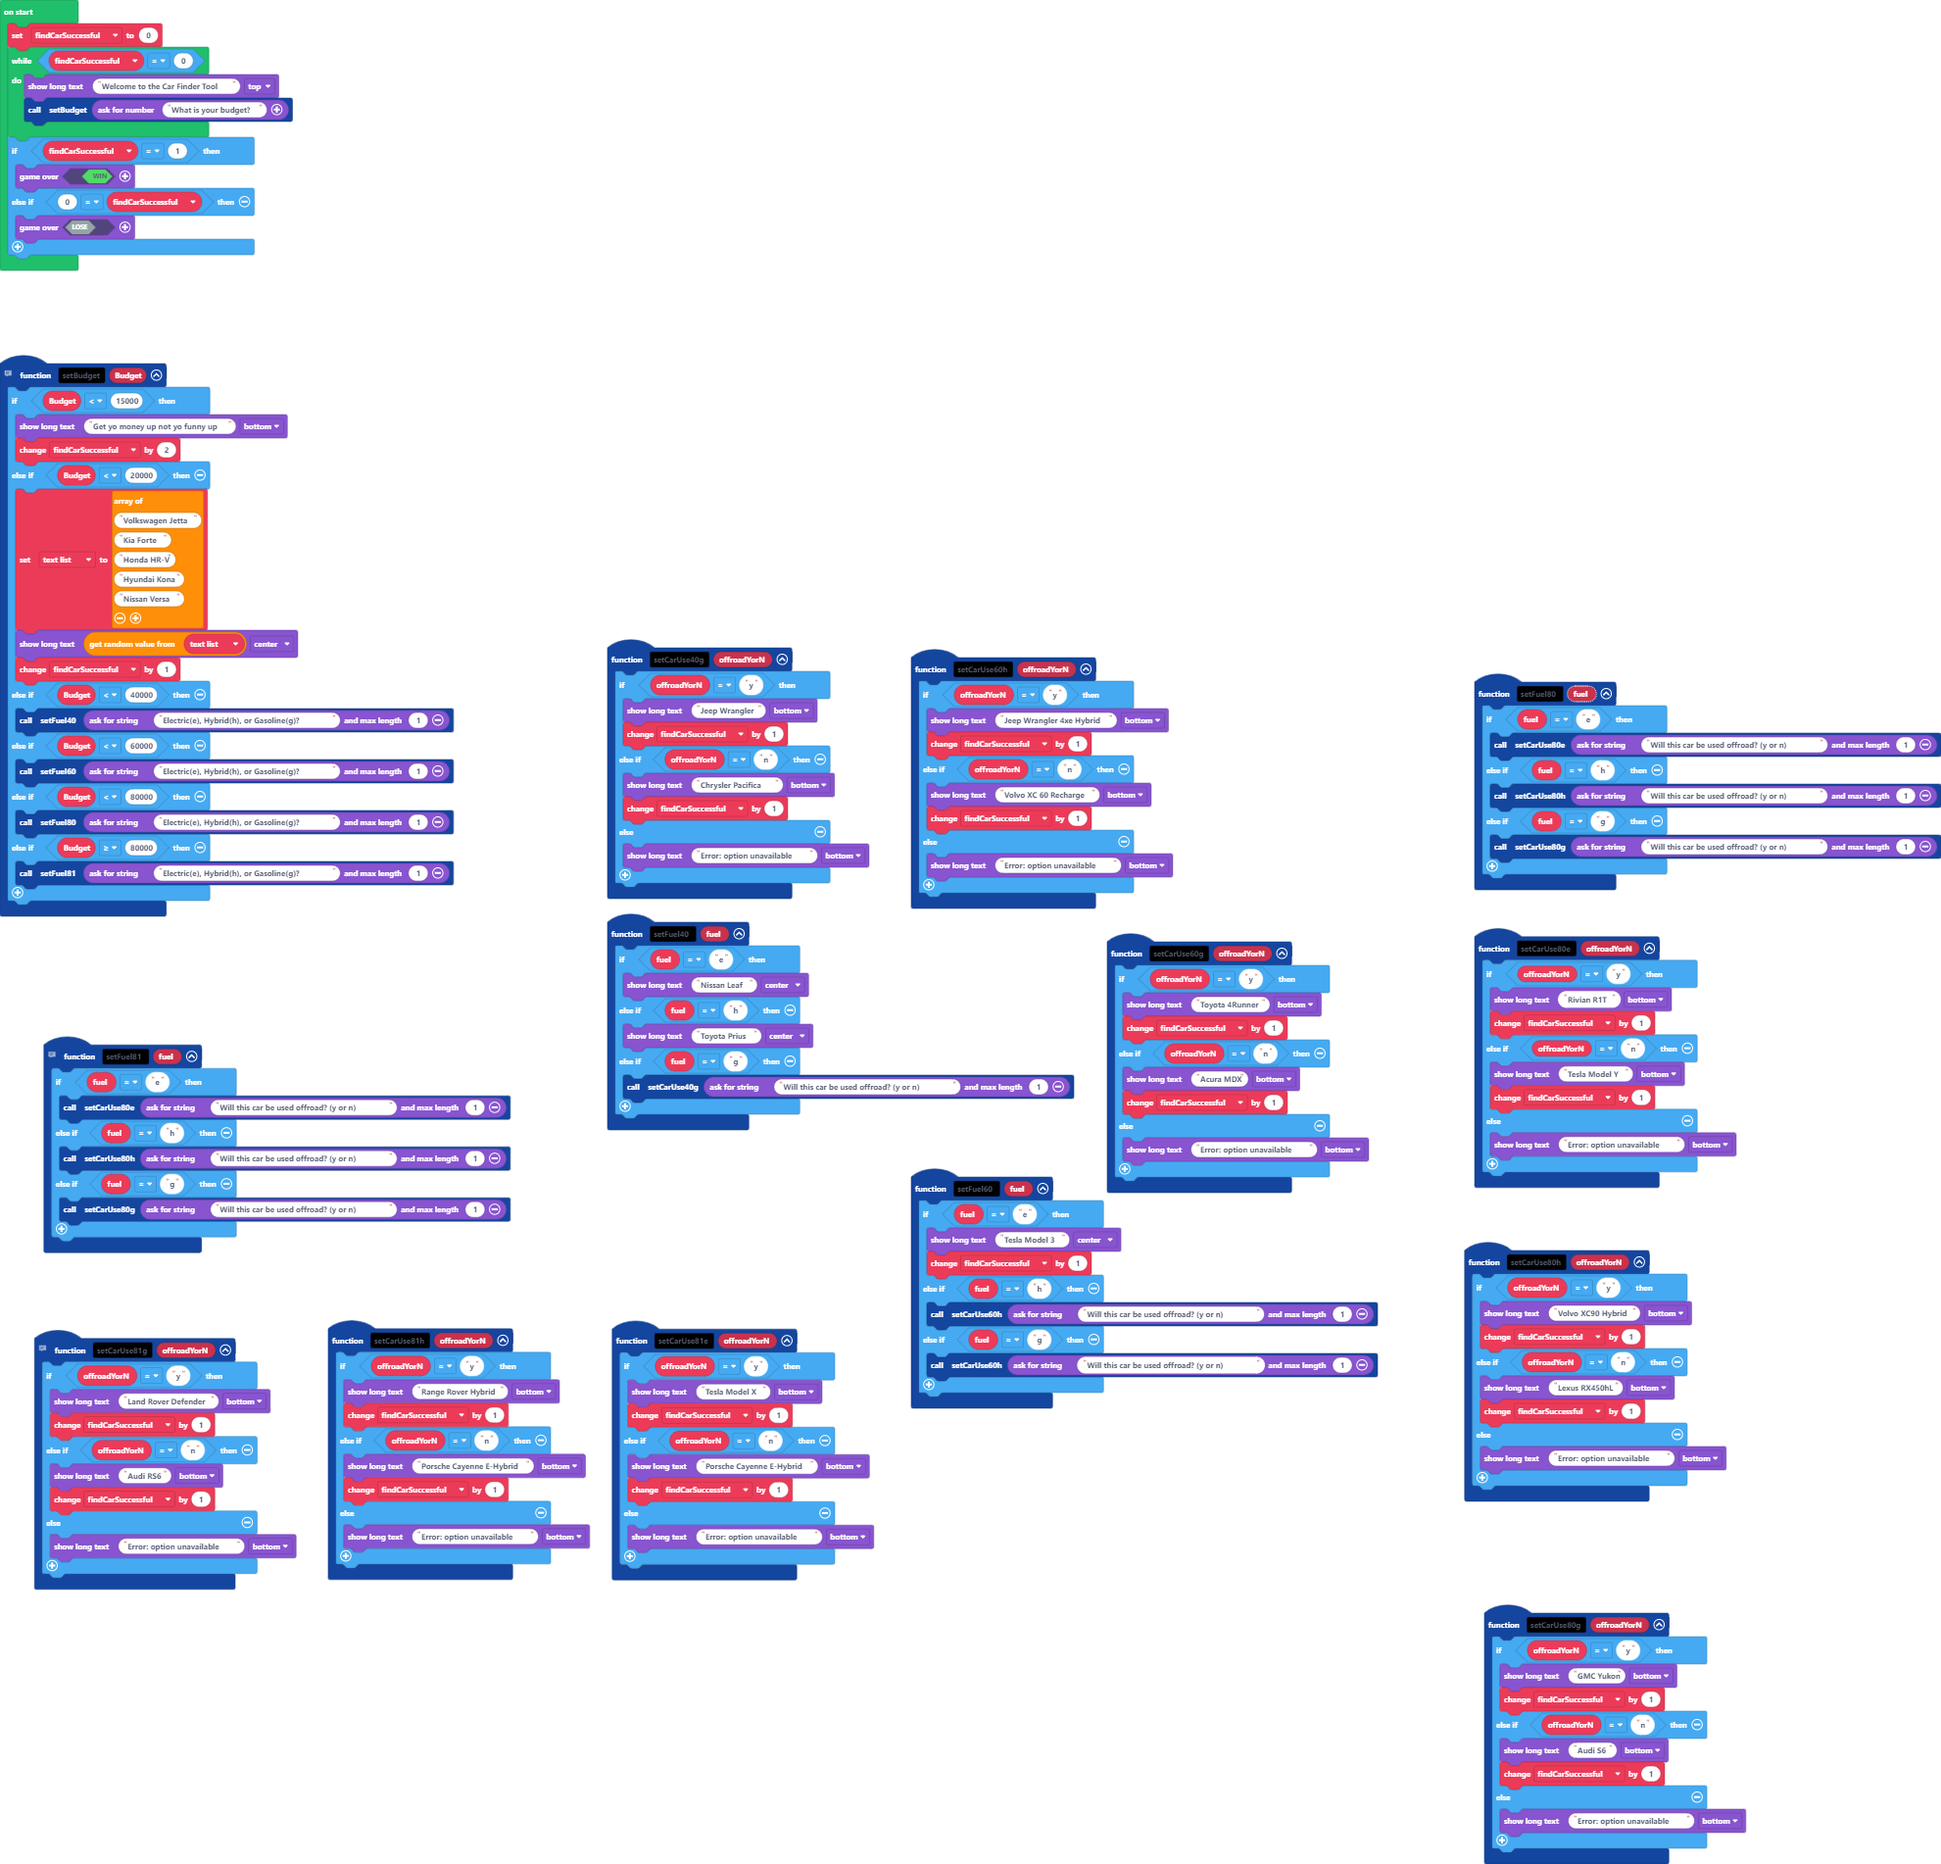
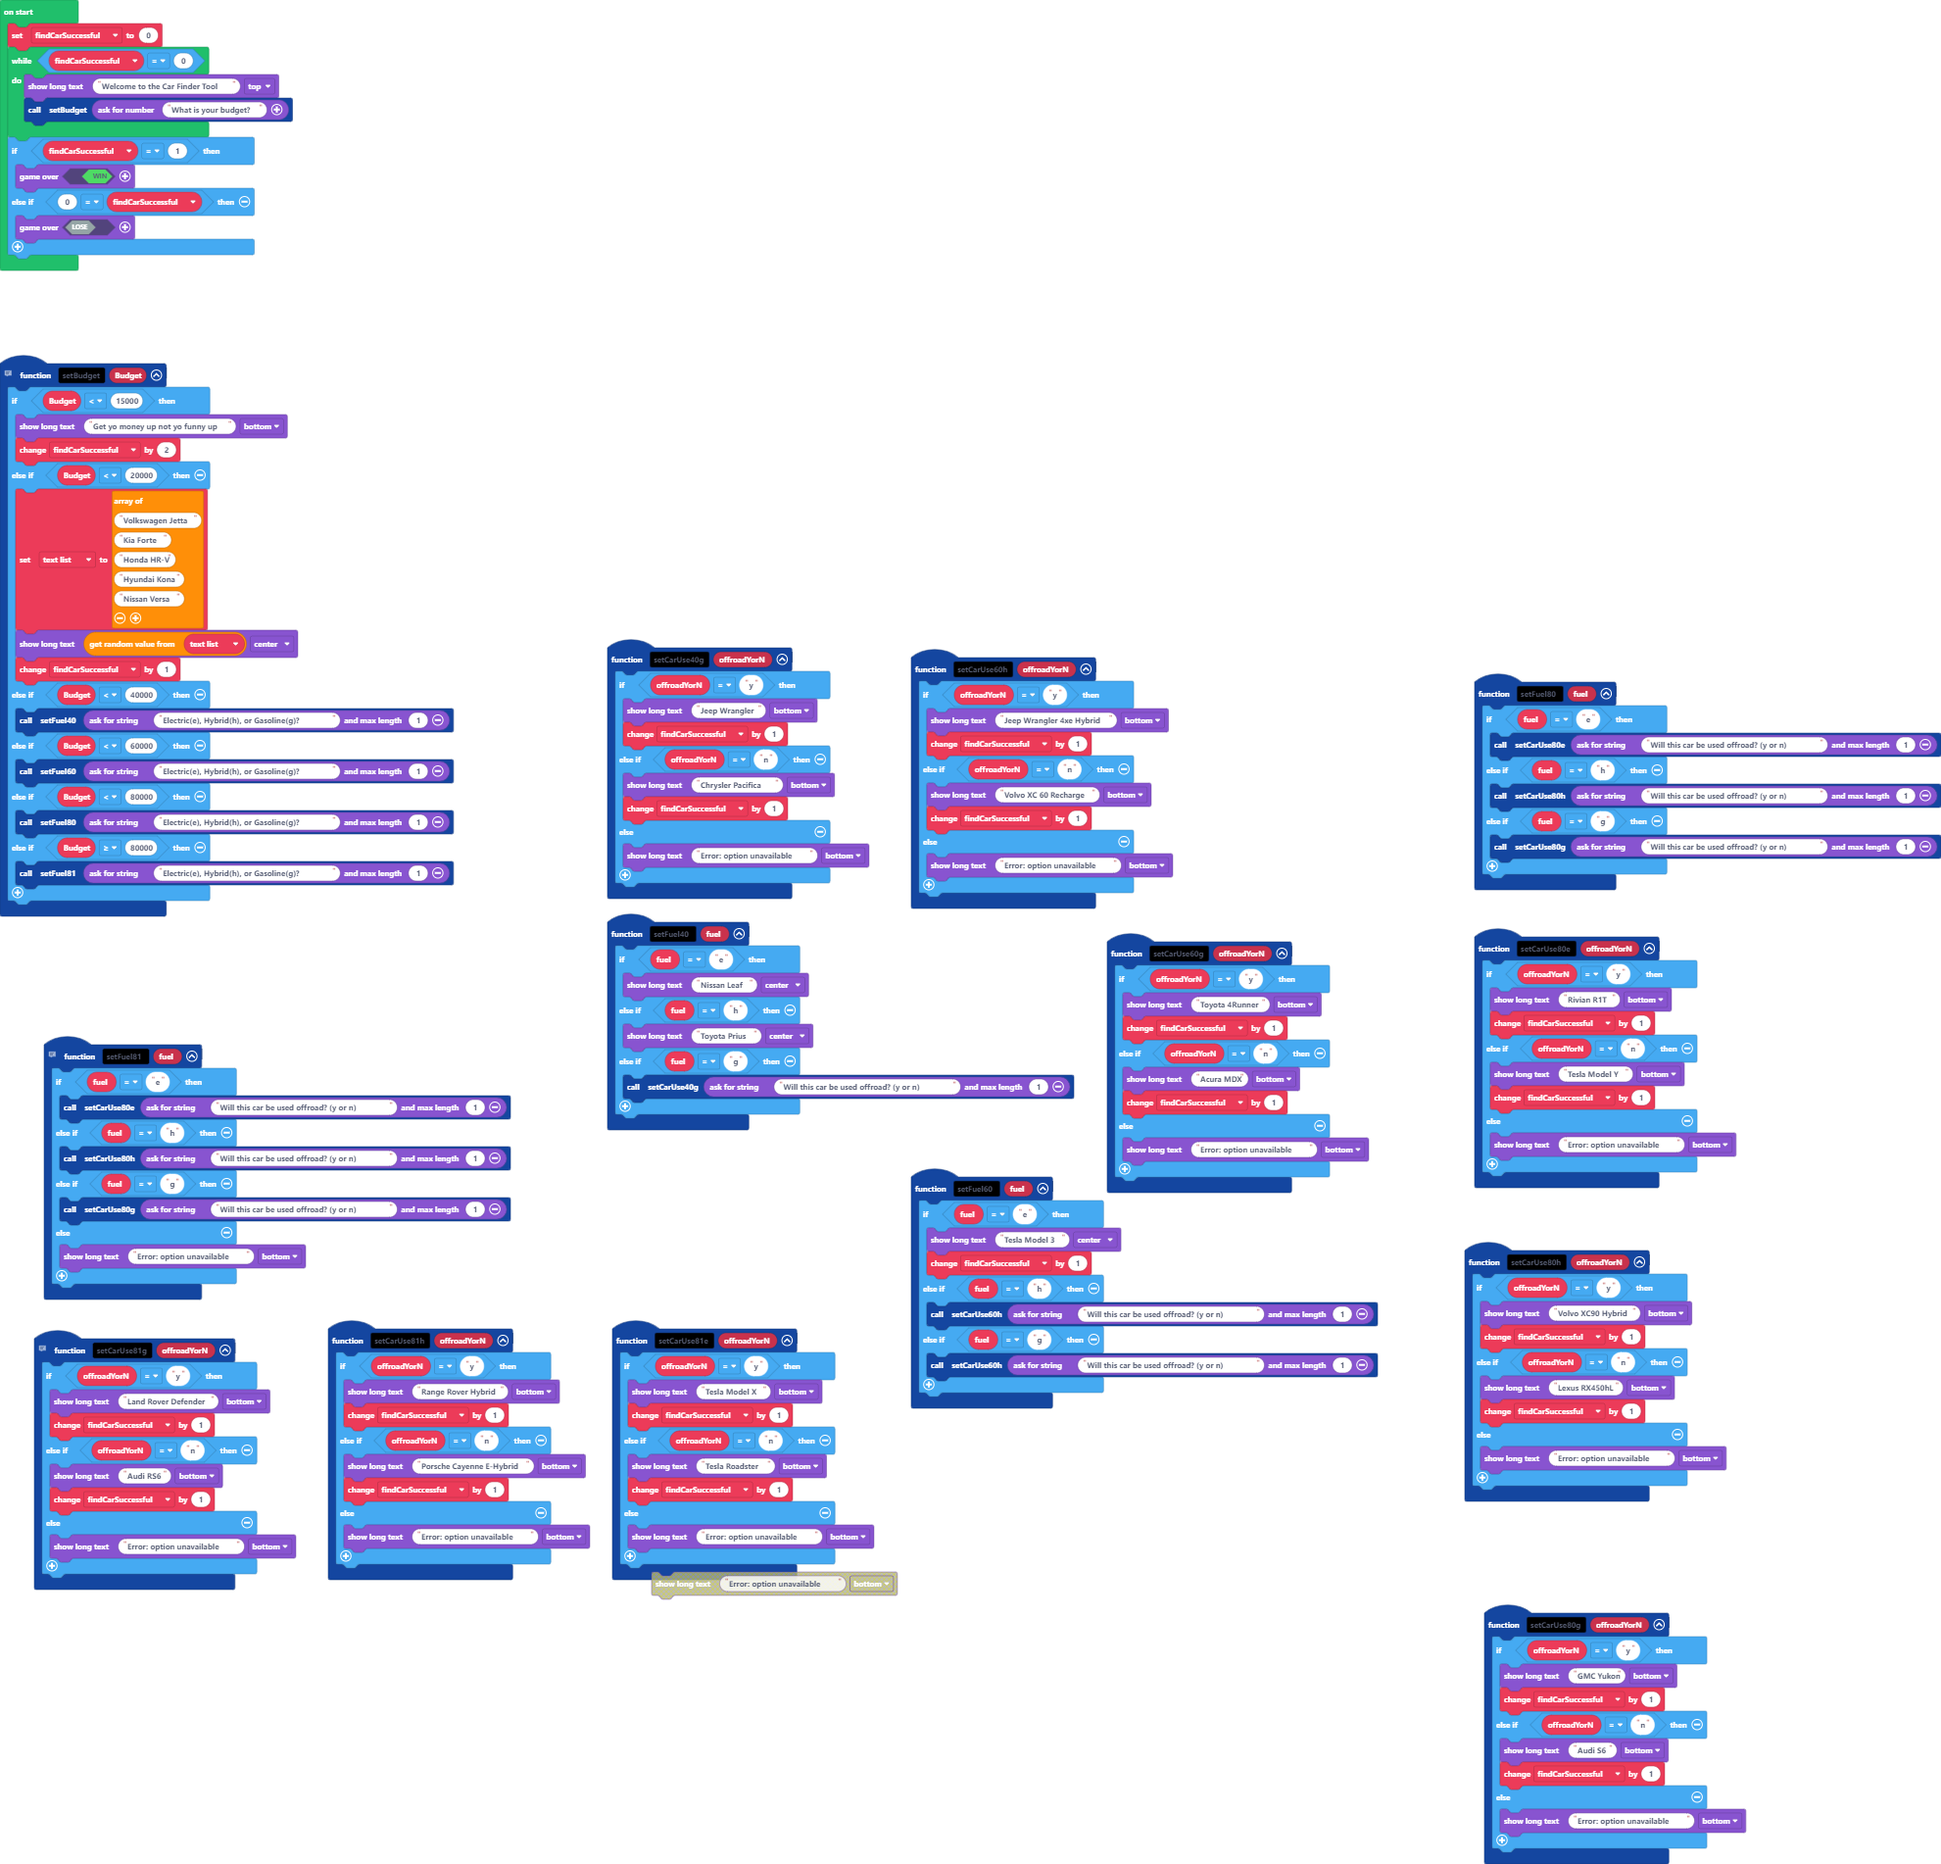
Update main.blocks, main.ts

diff --git a/main.ts b/main.ts
@@ -83,6 +83,8 @@ function setFuel81 (fuel: string) {
         setCarUse80h(game.askForString("Will this car be used offroad? (y or n)", 1))
     } else if (fuel == "g") {
         setCarUse80g(game.askForString("Will this car be used offroad? (y or n)", 1))
+    } else {
+        game.showLongText("Error: option unavailable", DialogLayout.Bottom)
     }
 }
 function setCarUse80h (offroadYorN: string) {
@@ -123,7 +125,7 @@ function setCarUse81e (offroadYorN: string) {
         game.showLongText("Tesla Model X", DialogLayout.Bottom)
         findCarSuccessful += 1
     } else if (offroadYorN == "n") {
-        game.showLongText("Porsche Cayenne E-Hybrid", DialogLayout.Bottom)
+        game.showLongText("Tesla Roadster", DialogLayout.Bottom)
         findCarSuccessful += 1
     } else {
         game.showLongText("Error: option unavailable", DialogLayout.Bottom)
